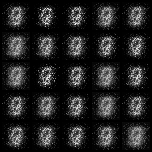
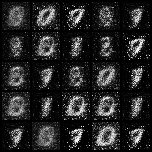
hyperparams change

diff --git a/utils.py b/utils.py
@@ -31,7 +31,7 @@ def master_hook_adder(module, grad_input, grad_output):
 def dummy_hook(module, grad_input, grad_output):
     pass
 
-def dp_hook(sensitivity, noise_multiplier):
+def dp_hook(sensitivity, noise_multiplier, clip_bound_batch):
     def hook_function(module, grad_input, grad_output):
         grad_wrt_input = grad_input[0]
         grad_input_shape = grad_wrt_input.size()
@@ -40,8 +40,15 @@ def dp_hook(sensitivity, noise_multiplier):
         # reshape
         grad_wrt_input = grad_wrt_input.view(batch_size, -1)
 
+        # clipping
+        clip_bound = clip_bound_batch / batch_size
+        grad_input_norm = torch.norm(grad_wrt_input, p=2, dim=1)
+        clip_coef = clip_bound / (grad_input_norm + 1e-10)
+        clip_coef = clip_coef.unsqueeze(-1)
+        grad_wrt_input = clip_coef * grad_wrt_input
+
         # add noise, considering noise_multiplier and sensitivity
-        noise = noise_multiplier * sensitivity * torch.randn_like(grad_wrt_input)
+        noise = clip_bound * noise_multiplier * sensitivity * torch.randn_like(grad_wrt_input)
         grad_wrt_input = grad_wrt_input + noise
 
         # reshape to the original grad shape

diff --git a/main.py b/main.py
@@ -45,7 +45,7 @@ if __name__ == "__main__":
     os.makedirs(gen_images_dir, exist_ok=True)
     image_shape = (channel, image_width, image_width)
     L_epsilon = 0.01
-    sensitivity = 2.0
+    sensitivity = 1.0
 
     # Get data
     transform = transforms.Compose(
@@ -137,7 +137,7 @@ if __name__ == "__main__":
             # ------------train generator--------------#
             ############################################
             if args.config_model == 3:
-                utils.dynamic_hook = utils.dp_hook(sensitivity, cfg['noise_multiplier'])
+                utils.dynamic_hook = utils.dp_hook(sensitivity, cfg['noise_multiplier'], cfg['clip_bound_batch'])
 
             optimizer_G.zero_grad()
             gen_imgs = G(z)

diff --git a/config.py b/config.py
@@ -20,11 +20,12 @@ config_dp_wgan_gp = {
 }
 
 config_gs_wgan = {
-    'lr_D': 5e-5,
-    'lr_G': 5e-5,
+    'lr_D': 5e-4,
+    'lr_G': 2e-4,
     'gen_images_dir': "./gen_images_gswgan",
     'num_workers': 0,
     'total_epochs': 55,
     'batch_size': 128,
     'noise_multiplier': 0.3,
+    'clip_bound_batch': 1.0
 }
